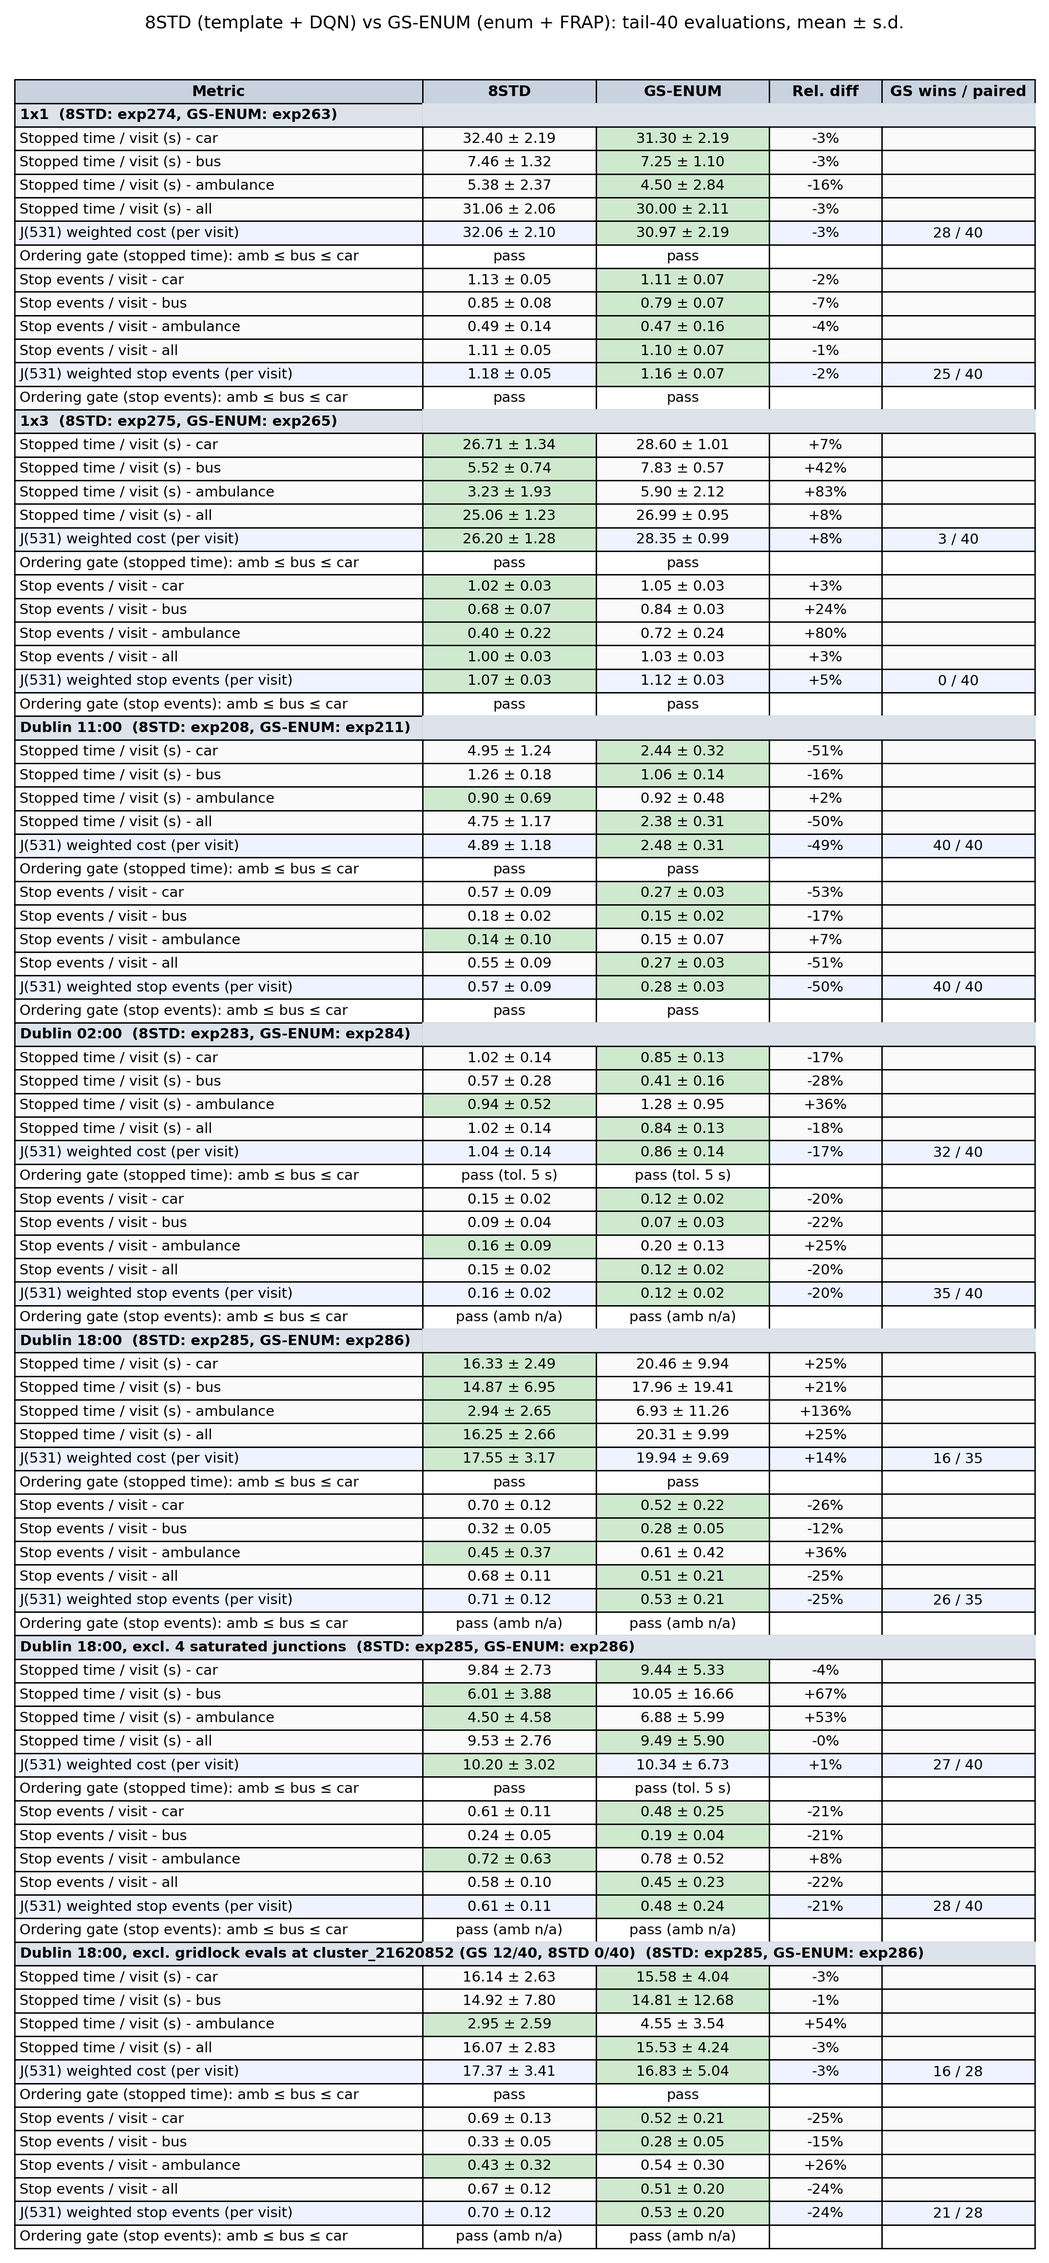
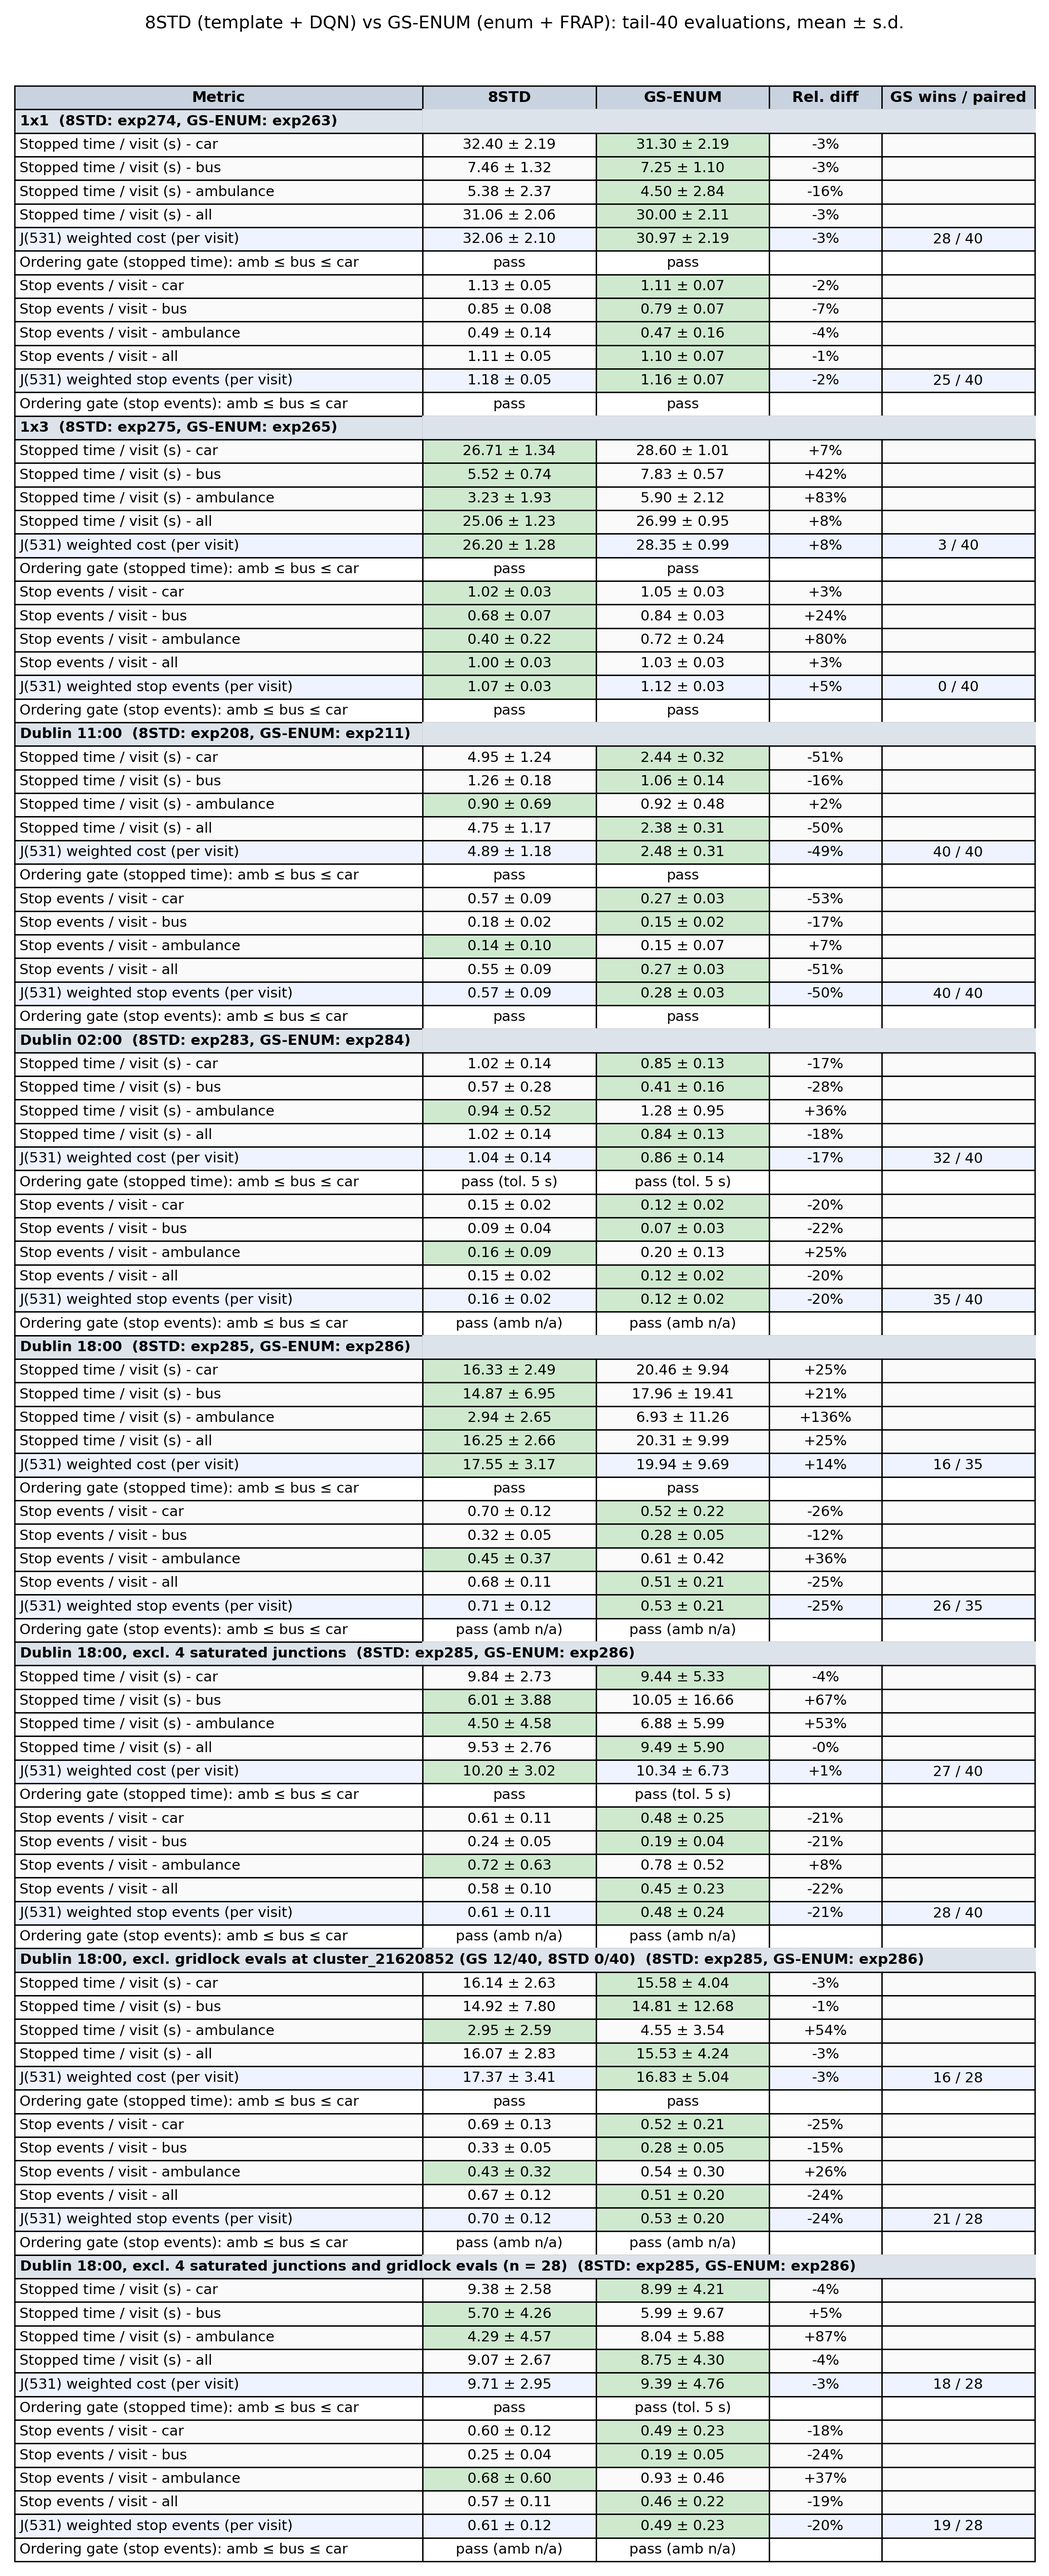
英文表格图加第 8 块 (用户要求): Dublin 18:00 剔 4 个饱和口 且 剔合流口锁死评估 (n=28 配对, 访问量加权): 停车时间 car −4%/all −4%/J −3% (18/28), 停车次数 −19~−21% (19/28), 救护车 1 辆无统计意义; 文档 §7.11; 表格脚本 EV 查找改为最长前缀匹配

diff --git a/experiments/tools/figures/plot_main_table_en_2026-09-22.py b/experiments/tools/figures/plot_main_table_en_2026-09-22.py
@@ -1,6 +1,7 @@
 """英文主对比表格 (2026-09-22 版, 新文件, 不覆盖 2026-09-02 版):
 1x1 (274/263) → 1x3 (275/265) → Dublin 11:00 (208/211) → Dublin 02:00 (283/284) → Dublin 18:00 (285/286)
 → Dublin 18:00 剔除 4 个饱和路口 (任一臂尾40均值 >50 s, 两臂对称; 访问量加权, 权重 = 路由文件车辆数, 两臂相同)
+→ Dublin 18:00 两条规则叠加 (剔 4 口 + 剔锁死评估, n=28, 访问量加权)
 → Dublin 18:00 剔除合流口 cluster_21620852 锁死评估 (规则对称: 任一臂该口 all 停车时间 >100 s 的评估两臂同剔;
    尾40 里只有 GS 触发 12 次, 8STD 0 次, 标题如实标注; n=28 配对)。
 每行更优者标绿 (停车时间/visit 与停车次数/visit 各 4 类 + J 行); 保序门: 严格 amb ≤ bus ≤ car 通过写 pass; 严格不过但相邻类差 ≤ 5 s (一个决策步 / 5 s 采样量子)
@@ -20,8 +21,10 @@ S=[("1x1  (8STD: exp274, GS-ENUM: exp263)",{"car":((32.40,2.19),(31.30,2.19)),"b
    ("Dublin 02:00  (8STD: exp283, GS-ENUM: exp284)",{"car":((1.02,0.14),(0.85,0.13)),"bus":((0.57,0.28),(0.41,0.16)),"amb":((0.94,0.52),(1.28,0.95)),"all":((1.02,0.14),(0.84,0.13)),"stops":((0.15,0.02),(0.12,0.02)),"J":((1.04,0.14),(0.86,0.14))},"32 / 40"),
    ("Dublin 18:00  (8STD: exp285, GS-ENUM: exp286)",{"car":((16.33,2.49),(20.46,9.94)),"bus":((14.87,6.95),(17.96,19.41)),"amb":((2.94,2.65),(6.93,11.26)),"all":((16.25,2.66),(20.31,9.99)),"stops":((0.68,0.11),(0.51,0.21)),"J":((17.55,3.17),(19.94,9.69))},"16 / 35"),
    ("Dublin 18:00, excl. 4 saturated junctions  (8STD: exp285, GS-ENUM: exp286)",{"car":((9.84,2.73),(9.44,5.33)),"bus":((6.01,3.88),(10.05,16.66)),"amb":((4.50,4.58),(6.88,5.99)),"all":((9.53,2.76),(9.49,5.90)),"stops":((0.58,0.10),(0.45,0.23)),"J":((10.20,3.02),(10.34,6.73))},"27 / 40"),
-   ("Dublin 18:00, excl. gridlock evals at cluster_21620852 (GS 12/40, 8STD 0/40)  (8STD: exp285, GS-ENUM: exp286)",{"car":((16.14,2.63),(15.58,4.04)),"bus":((14.92,7.80),(14.81,12.68)),"amb":((2.95,2.59),(4.55,3.54)),"all":((16.07,2.83),(15.53,4.24)),"stops":((0.67,0.12),(0.51,0.20)),"J":((17.37,3.41),(16.83,5.04))},"16 / 28")]
+   ("Dublin 18:00, excl. gridlock evals at cluster_21620852 (GS 12/40, 8STD 0/40)  (8STD: exp285, GS-ENUM: exp286)",{"car":((16.14,2.63),(15.58,4.04)),"bus":((14.92,7.80),(14.81,12.68)),"amb":((2.95,2.59),(4.55,3.54)),"all":((16.07,2.83),(15.53,4.24)),"stops":((0.67,0.12),(0.51,0.20)),"J":((17.37,3.41),(16.83,5.04))},"16 / 28"),
+   ("Dublin 18:00, excl. 4 saturated junctions and gridlock evals (n = 28)  (8STD: exp285, GS-ENUM: exp286)",{"car":((9.38,2.58),(8.99,4.21)),"bus":((5.70,4.26),(5.99,9.67)),"amb":((4.29,4.57),(8.04,5.88)),"all":((9.07,2.67),(8.75,4.30)),"J":((9.71,2.95),(9.39,4.76))},"18 / 28")]
 EV={'1x1': {'ev_car': ((1.13, 0.05), (1.11, 0.07)), 'ev_bus': ((0.85, 0.08), (0.79, 0.07)), 'ev_amb': ((0.49, 0.14), (0.47, 0.16)), 'ev_all': ((1.11, 0.05), (1.1, 0.07)), 'ev_J': ((1.18, 0.05), (1.16, 0.07)), 'ev_wins': '25 / 40'}, '1x3': {'ev_car': ((1.02, 0.03), (1.05, 0.03)), 'ev_bus': ((0.68, 0.07), (0.84, 0.03)), 'ev_amb': ((0.4, 0.22), (0.72, 0.24)), 'ev_all': ((1.0, 0.03), (1.03, 0.03)), 'ev_J': ((1.07, 0.03), (1.12, 0.03)), 'ev_wins': '0 / 40'}, 'Dublin 11:00': {'ev_car': ((0.57, 0.09), (0.27, 0.03)), 'ev_bus': ((0.18, 0.02), (0.15, 0.02)), 'ev_amb': ((0.14, 0.1), (0.15, 0.07)), 'ev_all': ((0.55, 0.09), (0.27, 0.03)), 'ev_J': ((0.566, 0.091), (0.281, 0.027)), 'ev_wins': '40 / 40'}, 'Dublin 02:00': {'ev_car': ((0.15, 0.02), (0.12, 0.02)), 'ev_bus': ((0.09, 0.04), (0.07, 0.03)), 'ev_amb': ((0.16, 0.09), (0.2, 0.13)), 'ev_all': ((0.15, 0.02), (0.12, 0.02)), 'ev_J': ((0.156, 0.022), (0.125, 0.019)), 'ev_wins': '35 / 40'}, 'Dublin 18:00  ': {'ev_car': ((0.7, 0.12), (0.52, 0.22)), 'ev_bus': ((0.32, 0.05), (0.28, 0.05)), 'ev_amb': ((0.45, 0.37), (0.61, 0.42)), 'ev_all': ((0.68, 0.11), (0.51, 0.21)), 'ev_J': ((0.711, 0.117), (0.531, 0.212)), 'ev_wins': '26 / 35'}, 'Dublin 18:00, excl. 4': {'ev_car': ((0.61, 0.11), (0.48, 0.25)), 'ev_bus': ((0.24, 0.05), (0.19, 0.04)), 'ev_amb': ((0.72, 0.63), (0.78, 0.52)), 'ev_all': ((0.58, 0.1), (0.45, 0.23)), 'ev_J': ((0.612, 0.109), (0.481, 0.237)), 'ev_wins': '28 / 40'}, 'Dublin 18:00, excl. gridlock': {'ev_car': ((0.69, 0.13), (0.52, 0.21)), 'ev_bus': ((0.33, 0.05), (0.28, 0.05)), 'ev_amb': ((0.43, 0.32), (0.54, 0.3)), 'ev_all': ((0.67, 0.12), (0.51, 0.2)), 'ev_J': ((0.703, 0.12), (0.534, 0.2)), 'ev_wins': '21 / 28'}}
+EV["Dublin 18:00, excl. 4 saturated junctions and gridlock"]={"ev_car":((0.60,0.12),(0.49,0.23)),"ev_bus":((0.25,0.04),(0.19,0.05)),"ev_amb":((0.68,0.60),(0.93,0.46)),"ev_all":((0.57,0.11),(0.46,0.22)),"ev_J":((0.61,0.12),(0.49,0.23)),"ev_wins":"19 / 28"}
 ROWS=[("car","Stopped time / visit (s) - car"),("bus","Stopped time / visit (s) - bus"),("amb","Stopped time / visit (s) - ambulance"),("all","Stopped time / visit (s) - all"),("J","J(531) weighted cost (per visit)")]
 fmt=lambda m,s: f"{m:.2f} ± {s:.2f}"; GREEN="#cfe9cf"; cells=[];colors=[];hdr=[]
 for scen,d,wins in S:
@@ -33,7 +36,7 @@ for scen,d,wins in S:
     g=[gate(d["amb"][i][0],d["bus"][i][0],d["car"][i][0]) for i in (0,1)]
     cells.append(["Ordering gate (stopped time): amb ≤ bus ≤ car",g[0],g[1],"",""]); colors.append(["#ffffff"]*5)
     # 停车次数 / visit 分车类 + J + 门 (救护车 n ≤ 2 辆的时段, 一次停车事件即改变 0.08-0.5, 门只判 bus ≤ car, 救护车标 n/a)
-    ev=[v for k,v in EV.items() if scen.startswith(k)][0]
+    ev=EV[max((k for k in EV if scen.startswith(k)), key=len)]   # 取最长匹配键 (第 6/8 块前缀相同)
     for key,lab in (("ev_car","Stop events / visit - car"),("ev_bus","Stop events / visit - bus"),("ev_amb","Stop events / visit - ambulance"),("ev_all","Stop events / visit - all"),("ev_J","J(531) weighted stop events (per visit)")):
         (am,asd),(bm,bsd)=ev[key]; delta=(bm-am)/am*100
         c=["#eef3ff" if key=="ev_J" else "#fafafa"]*5; c[2 if bm<am else 1]=GREEN
@@ -44,7 +47,7 @@ for scen,d,wins in S:
         am,bu,ca=ev["ev_amb"][i][0],ev["ev_bus"][i][0],ev["ev_car"][i][0]
         ge.append(("pass (amb n/a)" if bu<=ca else "fail (amb n/a)") if amb_na else gate(am,bu,ca))
     cells.append(["Ordering gate (stop events): amb ≤ bus ≤ car",ge[0],ge[1],"",""]); colors.append(["#ffffff"]*5)
-fig,ax=plt.subplots(figsize=(13.5,29)); ax.axis("off")
+fig,ax=plt.subplots(figsize=(13.5,33)); ax.axis("off")
 tbl=ax.table(cellText=cells,colLabels=["Metric","8STD","GS-ENUM","Rel. diff","GS wins / paired"],cellColours=colors,colColours=["#c9d3df"]*5,loc="upper center",cellLoc="center",colWidths=[0.40,0.17,0.17,0.11,0.15])
 tbl.auto_set_font_size(False); tbl.scale(1,1.45)
 for (r,c),cell in tbl.get_celld().items():
